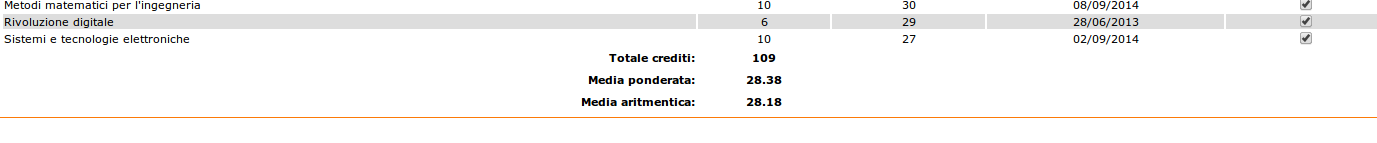
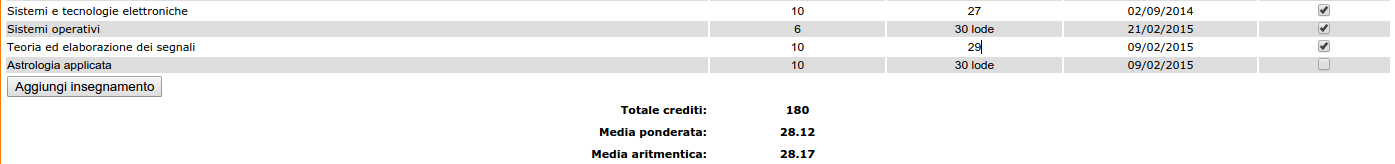
media v0.8

diff --git a/polito.it/media/Media.js b/polito.it/media/Media.js
@@ -1,7 +1,7 @@
 // ==UserScript==
 // @name        Media
 // @namespace   http://fgiobergia.com
-// @version     0.1
+// @version     0.8
 // @description Calcola media ponderata e aritmentica dei voti presenti nel Libretto Elettronico
 // @match       https://didattica.polito.it/portal/page/portal/home/Studente*
 // @match       https://didattica.polito.it/pls/portal30/sviluppo.pagina_studente.main*
@@ -17,19 +17,19 @@ $(document).ready(function() {
         var wsum = 0, wnum = 0, cfu, rank, anum = 0, asum = 0;
 		$('table').find('tr.policorpo').each(function(i) {
             if (i) {
-                if ($(this).find('input').prop('checked')) {
+                if ($(this).find('input[type=checkbox]').prop('checked')) {
                     var tds = $(this).find('td').each(function(j) {
 						if (j==1) {
-							cfu = $(this).text();
+							cfu = $(this).children().first().val();
                     	}
                         else if (j==2) {
-                            rank = $(this).text();
+                            rank = $(this).children().first().val();
                         }
                 	});
                     if (rank=='sup') {
                         rank = 25;
                     }
-                    rank = parseInt(rank);
+                    rank = parseFloat(rank);
                     cfu = parseInt(cfu);
                     wsum += rank*cfu;
                     wnum += cfu;
@@ -37,9 +37,27 @@ $(document).ready(function() {
                     anum++;
                 }
             }    
-		}); 
+		});
         $('#fg_weighted').html((wsum/wnum).toFixed(2));
         $('#fg_arithmetic').html((asum/anum).toFixed(2));
+    }
+    
+    function addRow() {
+        var row = $('table').find('tr.policorpo').slice(-1);
+        var color = (row.attr('bgcolor')==undefined || row.attr('bgcolor')=='#ffffff') ? '#dddddd' : '#ffffff';
+        row.after("<tr class='policorpo' bgcolor='"+color+"'>"+row.html()+"</tr>");
+        var new_row = row.next();
+        $(new_row).find('input').css('background',new_row.attr('bgcolor'));
+        new_row.children().first().html("<input value='Dummy exam'>");
+        new_row.children().first().children().first().css('background',new_row.attr('bgcolor'))
+        .css('border','0px').css('width','100%').css('height','12px').css('font-size','12px');
+        new_row.children().slice(1,2).children().first().val(Math.floor(Math.random()*3+3)*2);
+        new_row.children().slice(2,3).children().first().val(Math.floor(Math.random()*13+18));
+        
+        $('.fg_include').click(calcWeightedAverage);
+        $('.fg_rank').blur(calcWeightedAverage);
+        $('.fg_cfu').blur(calcWeightedAverage);
+        calcWeightedAverage();
     }
     
     var parent;
@@ -52,6 +70,7 @@ $(document).ready(function() {
             $(this).append('<td align="center"><input type="checkbox" class="fg_include" checked></td>');
         }
 	});
+    $(parent).children().slice(-2,-1).after('<tr><td class="policorpo"><input id = "fg_add_exam" type="button" value="Aggiungi insegnamento"></td></tr>');
     $(parent).children().last().children().last().prop('colspan',3);
     $(parent).append('<tr><td class="policorpo" align="right"><b>Media ponderata:</b></td>             \
                       <td class="policorpo" align="center"><b><span id="fg_weighted"></span></b></td>  \
@@ -59,12 +78,41 @@ $(document).ready(function() {
                       <tr><td class="policorpo" align="right"><b>Media aritmentica:</b></td>           \
                       <td class="policorpo" align="center"><b><span id="fg_arithmetic"></span></b></td>\
                       <td align="center" colspan="3">&nbsp;</td></tr>');
+   
     
-    calcWeightedAverage();
     
-    $('.fg_include').click(function() {
-        calcWeightedAverage();
+    $('table').find('tr.policorpo').each(function(i) {
+        if (i) {
+            var tds = $(this).find('td').each(function(j,v) {
+                if (j==1 || j==2) {
+                    var val = $(this).text();
+                    var label = (j==1) ? 'fg_cfu' : 'fg_rank';
+                    $(this).html("<input class = '"+label+"' value='"+val+"'>");
+                    $(this).children().css('border','0px').css('background',$(this).parent().attr('bgcolor'))
+                    .css('width','60px').css('height','12px').css('text-align','center').css('font-size','12px');
+                }
+            });
+        }
     });
     
+    /* compute the weighted average on loading */
+    calcWeightedAverage();
     
+    /* listeners */
+    $('.fg_include').click(calcWeightedAverage);
+    $('.fg_rank').blur(calcWeightedAverage);
+    $('.fg_cfu').blur(calcWeightedAverage);
+    $('#fg_add_exam').click(addRow);
+    $('.fg_rank').keydown(function(k) {
+        if (k.keyCode == 13) {
+            calcWeightedAverage();
+        }
+    });
+    $('.fg_cfu').keydown(function(k) {
+        if (k.keyCode == 13) {
+            calcWeightedAverage();
+        }
+    });
+    
+
 });

diff --git a/polito.it/media/README.md b/polito.it/media/README.md
@@ -8,4 +8,7 @@ Questo userscript calcola la media ponderata (pesata con i crediti) e aritmetica
 
 Se nessun esame viene selezionato, la media risultante sarà NaN. Il numero di crediti visualizzato (già dal sito, non dall'userscript) non viene aggiornato quando vengono cambiati gli esami selezionati (ma vengono tenuti in considerazione nel calcolo della media ponderata). 
 
-<sub><sup>(La media visualizzata nell'esempio è stata depurata dei 16 CFU peggiori, fyi)</sup></sub>
+**Update v0.8**: 
+- possibilità di modificare le righe presenti (numero di CFU e voto relativo) posizionandosi con il cursore sul campo da modificare
+- possibiltà di aggiungere nuovi voti (specificando nome della materia, numero di CFU e voto) (aggiunto un pulsante per aggiungere nuovi voti: i campi possono quindi essere modificati posizionandosi con il cursore sui vari valori)
+
